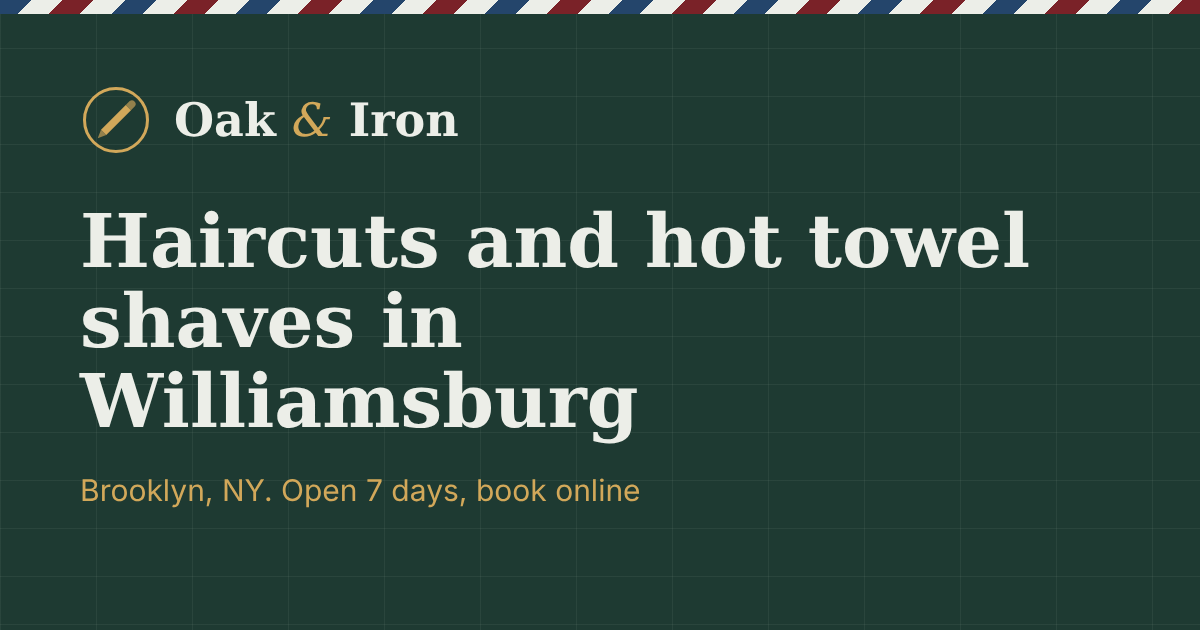
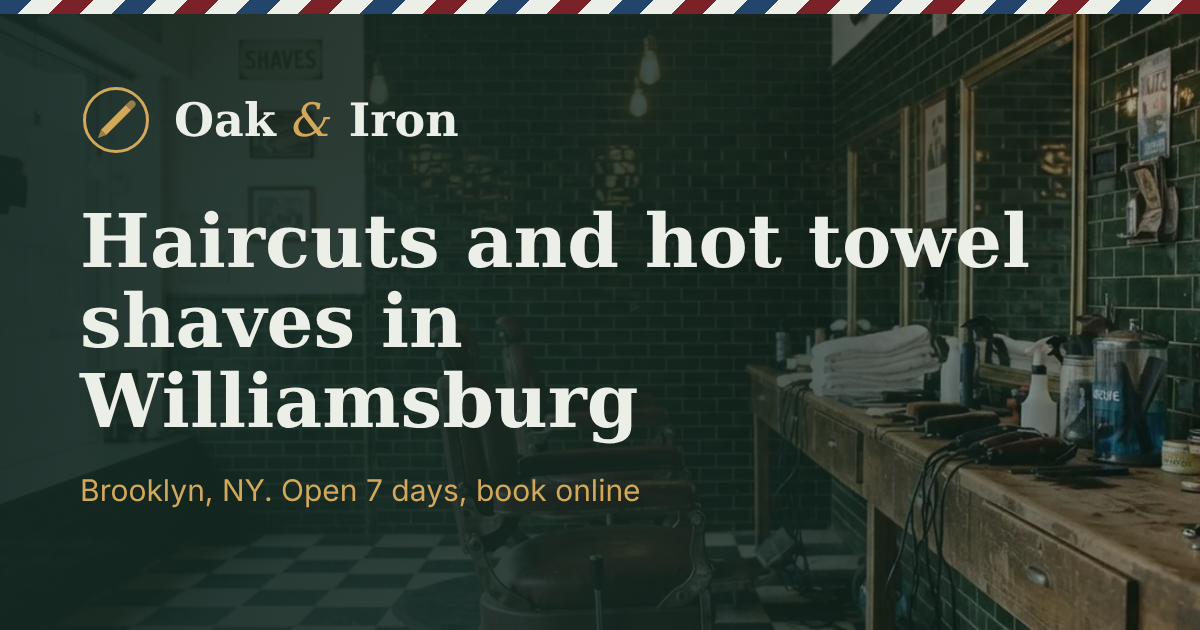
Add files via upload

diff --git a/assets/style.css b/assets/style.css
@@ -167,16 +167,25 @@ button { font: inherit; cursor: pointer; }
 .price__value small { font-size: .78rem; color: rgba(236, 238, 232, .6); }
 .board__note { margin-top: 2rem; color: rgba(236, 238, 232, .75); max-width: 44rem; }
 
+/* Inside the shop */
+.inside { padding: clamp(3.5rem, 7vw, 6rem) 0 0; }
+.inside__wide { width: 100%; height: auto; border-radius: 6px; }
+.inside__works { display: grid; grid-template-columns: repeat(3, minmax(0, 1fr)); gap: 1.5rem; margin-top: 1.5rem; }
+.inside__works figure { margin: 0; }
+.inside__works img { width: 100%; height: auto; border-radius: 6px; }
+.inside__works figcaption { margin-top: .7rem; color: var(--muted); }
+.inside__works figcaption b { font-family: var(--serif); font-size: 1.15rem; color: var(--ink); margin-right: .4rem; }
+
 /* Barbers */
 .barbers { padding: clamp(3.5rem, 7vw, 6rem) 0; }
 .barbers__list { display: grid; grid-template-columns: repeat(4, minmax(0, 1fr)); gap: 2rem; }
-.barber { display: flex; flex-direction: column; border-top: 3px solid var(--tile); padding-top: 1.6rem; }
-.barber__mono {
-  width: 88px; height: 88px; border-radius: 50%; display: grid; place-items: center;
-  font-family: var(--serif); font-size: 2.6rem; font-weight: 700; color: var(--tile);
-  background: var(--porcelain); box-shadow: inset 0 0 0 2px var(--brass), inset 0 0 0 7px var(--porcelain), inset 0 0 0 8px rgba(180, 135, 58, .5);
-  margin-bottom: 1.2rem;
+.barber { display: flex; flex-direction: column; }
+.barber__photo {
+  aspect-ratio: 4 / 5; margin-bottom: 1.2rem; overflow: hidden;
+  border-radius: 999px 999px 6px 6px; /* arch, like a barber's mirror */
+  border: 3px solid var(--brass); background: var(--porcelain);
 }
+.barber__photo img { width: 100%; height: 100%; object-fit: cover; }
 .barber__name { font-size: var(--step-2); }
 .barber__role { color: var(--oxblood); font-weight: 600; margin-top: .25rem; }
 .barber__skills { color: var(--muted); margin-top: .7rem; flex: 1; }
@@ -298,6 +307,7 @@ button { font: inherit; cursor: pointer; }
   .board__frame { grid-template-columns: 1fr; }
   .board__group + .board__group { border-left: 0; border-top: 1px solid rgba(180, 135, 58, .45); }
   .steps__list, .reviews__list { grid-template-columns: 1fr; gap: 2rem; }
+  .inside__works { gap: 1rem; }
   .faq__grid, .contacts__grid { grid-template-columns: 1fr; gap: 2rem; }
 }
 @media (max-width: 640px) {
@@ -305,7 +315,10 @@ button { font: inherit; cursor: pointer; }
   .header__row { min-height: 60px; gap: .8rem; }
   .header__phone, .header__actions .btn { display: none; }
   .logo__text { font-size: 1.25rem; }
-  .barbers__list { grid-template-columns: 1fr; }
+  .barbers__list { grid-template-columns: 1fr 1fr; gap: 1.5rem 1rem; }
+  .barber__name { font-size: var(--step-1); }
+  .inside__works { display: flex; gap: .9rem; overflow-x: auto; scroll-snap-type: x mandatory; margin-inline: -1.25rem; padding: 0 1.25rem .4rem; scrollbar-width: none; }
+  .inside__works li { flex: 0 0 74%; scroll-snap-align: center; }
   .board__group { padding: 1.5rem 1.1rem 1.6rem; }
   .mobile-bar {
     display: grid; grid-template-columns: 1fr 1.4fr; gap: .6rem;
